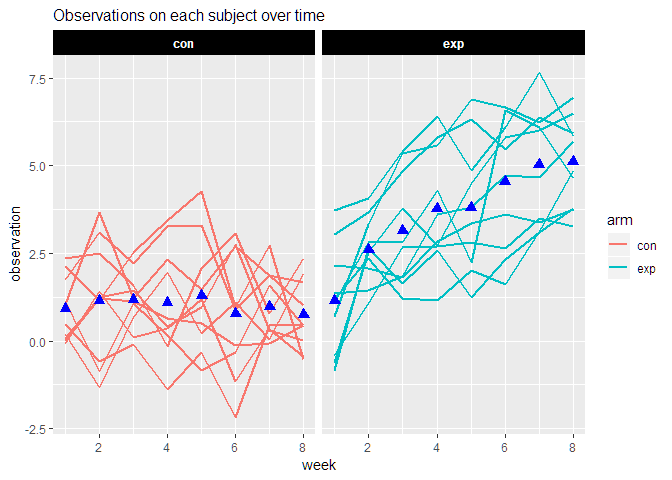
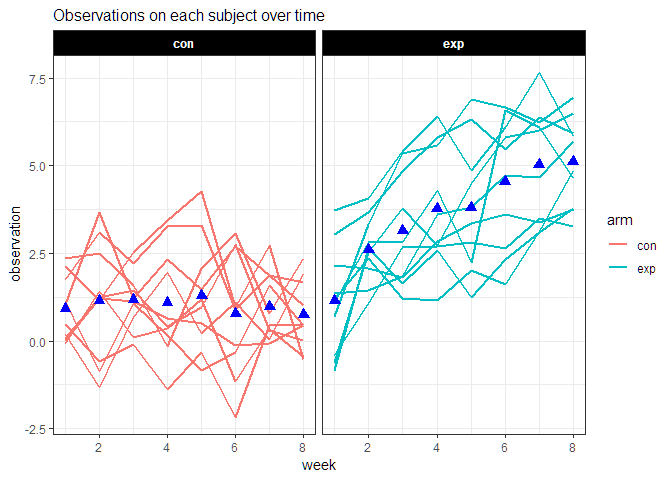
Finished last figure; finished the whole problem set

diff --git a/p8105_hw5_yc3242.md b/p8105_hw5_yc3242.md
@@ -59,22 +59,13 @@ study_data %>%
   facet_grid(~ arm) +
   stat_summary(aes(group = arm), fun.y = "mean", geom = "point", 
                color = "blue", size = 3, shape = 17) +
+  theme_bw() +
   theme(plot.title = element_text(size = 12),
         strip.background = element_rect(fill = "black"),
         strip.text = element_text(color = "white", face = "bold")) 
 ```
 
 ![](p8105_hw5_yc3242_files/figure-markdown_github/plot_study_data-1.png)
-
-``` r
-study_data %>% 
-  group_by(arm, id) %>% 
-  ggplot(aes(x = week, y = obs, color = arm, type = id)) +
-  geom_line() +
-  stat_summary(aes(group = arm), fun.y = "mean", geom = "line", color = "blue") 
-```
-
-![](p8105_hw5_yc3242_files/figure-markdown_github/unnamed-chunk-2-1.png)
 
 Average observation is similar at starting point week 0 but over time, average observation in control group remains constant while in exosure group is increasing.
 
@@ -123,7 +114,7 @@ The data consists of 52179 observations and 12 variables as follows:
 
 #### 2-(2)
 
-: Create a city\_state variable.
+: Create a `city_state` variable.
 
 ``` r
 homicide_data = 
@@ -166,18 +157,38 @@ ttl_unsol
 : For the city of Baltimore, MD, estimate the proportion of homicides that are unsolved.
 
 ``` r
-prop_unsol = function(city) {
-  
-  city = ttl_unsol %>% 
-    filter(city_state == city)
-  
-  prop_city = prop.test(city$unsolved, city$total)
+# ttl_unsol only for Baltimore,MD
+ttl_unsol_balti = 
+  ttl_unsol %>% 
+  filter(city_state == "Baltimore,MD") 
 
-  broom::tidy(prop_city) %>% 
+# Prop.test
+balti_prop = 
+  prop.test(ttl_unsol_balti$unsolved, ttl_unsol_balti$total)
+
+balti_prop
+```
+
+    ## 
+    ##  1-sample proportions test with continuity correction
+    ## 
+    ## data:  ttl_unsol_balti$unsolved out of ttl_unsol_balti$total, null probability 0.5
+    ## X-squared = 239.01, df = 1, p-value < 2.2e-16
+    ## alternative hypothesis: true p is not equal to 0.5
+    ## 95 percent confidence interval:
+    ##  0.6275625 0.6631599
+    ## sample estimates:
+    ##         p 
+    ## 0.6455607
+
+``` r
+# Dataframe
+balti_prop_df =
+  balti_prop %>% 
+  broom::tidy() %>% 
   select(estimate, conf.low, conf.high)
-}
 
-prop_unsol("Baltimore,MD")
+balti_prop_df
 ```
 
     ## # A tibble: 1 x 3
@@ -185,27 +196,53 @@ prop_unsol("Baltimore,MD")
     ##      <dbl>    <dbl>     <dbl>
     ## 1    0.646    0.628     0.663
 
-``` r
-prop_unsol = function(city) {
-  
-  city = 
-    ttl_unsol %>% 
-    filter(city_state == city)
-  
-  prop.test(city$unsolved, city$total)
-
-}
-
-tidy_prop_unsol = function(x) {
-  broom::tidy(x) %>% 
-  select(estimate, conf.low, conf.high)
-}
-```
-
 ### 2-(5)
 
 : proportion of unsolved homicides for each of the cities
 
-Now run prop.test for each of the cities in your dataset, and extract both the proportion of unsolved homicides and the confidence interval for each. Do this within a “tidy” pipeline, making use of purrr::map, purrr::map2, list columns and unnest as necessary to create a tidy dataframe with estimated proportions and CIs for each city.
+``` r
+prop_unsol = 
+  ttl_unsol %>% 
+  mutate(test_res = map2(unsolved, total, prop.test)) %>% 
+  mutate(est_CI = map(test_res, broom::tidy)) %>% 
+  select(city_state, est_CI) %>% 
+  unnest() %>% 
+  select(city_state,estimate, conf.low, conf.high)
 
-Create a plot that shows the estimates and CIs for each city – check out geom\_errorbar for a way to add error bars based on the upper and lower limits. Organize cities according to the proportion of unsolved homicides.
+prop_unsol
+```
+
+    ## # A tibble: 50 x 4
+    ##    city_state     estimate conf.low conf.high
+    ##    <chr>             <dbl>    <dbl>     <dbl>
+    ##  1 Albuquerque,NM    0.386    0.337     0.438
+    ##  2 Atlanta,GA        0.383    0.353     0.415
+    ##  3 Baltimore,MD      0.646    0.628     0.663
+    ##  4 Baton Rouge,LA    0.462    0.414     0.511
+    ##  5 Birmingham,AL     0.434    0.399     0.469
+    ##  6 Boston,MA         0.505    0.465     0.545
+    ##  7 Buffalo,NY        0.612    0.569     0.654
+    ##  8 Charlotte,NC      0.300    0.266     0.336
+    ##  9 Chicago,IL        0.736    0.724     0.747
+    ## 10 Cincinnati,OH     0.445    0.408     0.483
+    ## # ... with 40 more rows
+
+### 2-(6)
+
+: Create a plot that shows the estimates and CIs for each city – check out geom\_errorbar for a way to add error bars based on the upper and lower limits. Organize cities according to the proportion of unsolved homicides.
+
+``` r
+prop_unsol %>% 
+  mutate(city_state = fct_reorder(city_state, estimate)) %>% 
+  ggplot(aes(x = city_state, y = estimate)) + 
+  geom_point() + 
+  geom_errorbar(aes(ymin = conf.low, ymax = conf.high), color = "darkred") + 
+  coord_flip() + 
+  labs(title = "Proportion of unsolved cases for each city",
+       subtitle = "Error bar using mean as center with 95% CIs",
+       y = "Proportion of unsolved cases", 
+       x = "City") +
+  theme_bw()
+```
+
+![](p8105_hw5_yc3242_files/figure-markdown_github/prop_unsol_plot-1.png)
